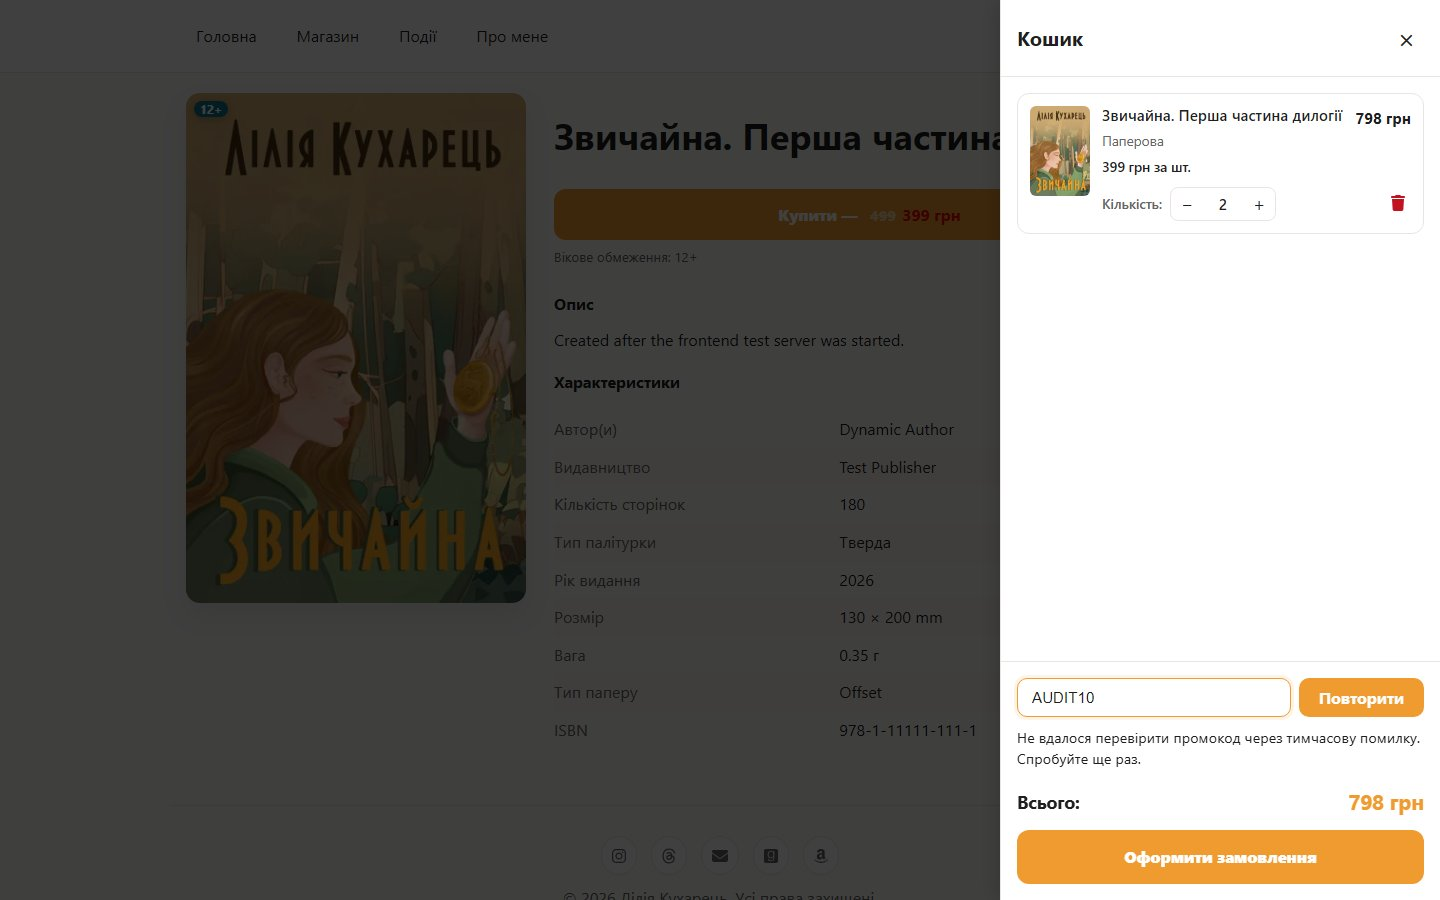
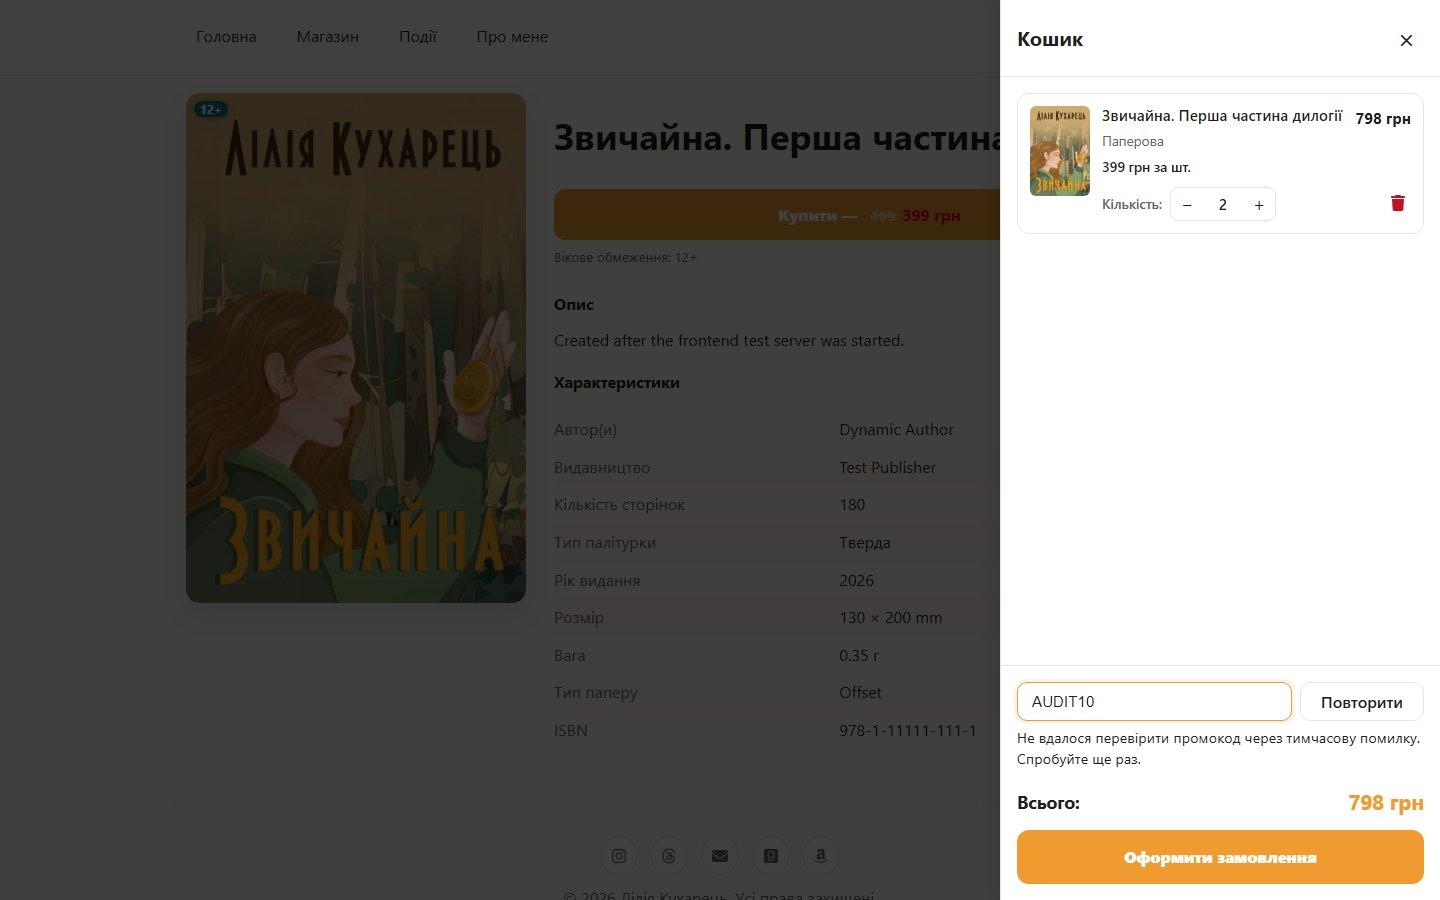
style: refine promo retry hierarchy and spacing (ZVY-71) [skip netlify]

Changed region(s): [[0.6875, 0.7467, 1.0, 0.8089]]

diff --git a/tests/e2e/promo-recovery.spec.ts b/tests/e2e/promo-recovery.spec.ts
@@ -91,16 +91,21 @@ for (const viewport of [{ width: 1440, height: 900 }, { width: 390, height: 844 
     });
 
     for (const failure of ["invalid", "expired", "400", "422", "network", "503", "500", "429", "401"] as const) {
-      test(`${failure} retains code and amounts, then recovers with unchanged code`, async ({ page }) => {
+      test(`${failure} retains code and amounts, then recovers with unchanged code`, async ({ page }, info) => {
         const selection = await page.evaluate(() => JSON.parse(localStorage.getItem("cart") ?? "[]"));
         let calls = 0;
         let recover = false;
+        let releaseRetry: () => void = () => {};
+        const pendingRetry = new Promise<void>(resolve => { releaseRetry = resolve; });
         await page.route("**/api/PromoCode/validate?**", async route => {
           calls += 1;
           const url = new URL(route.request().url());
           expect(url.searchParams.get("code")).toBe("AUDIT10");
           expect(url.searchParams.getAll("productItemIds")).toEqual([itemId]);
-          if (recover) return route.fulfill({ json: promo });
+          if (recover) {
+            if (failure === "503") await pendingRetry;
+            return route.fulfill({ json: promo });
+          }
           if (failure === "network") return route.abort("failed");
           const status = failure === "invalid" || failure === "expired" ? 404 : Number(failure);
           // HTML failure bodies must retain the actual transport status too.
@@ -130,7 +135,29 @@ for (const viewport of [{ width: 1440, height: 900 }, { width: 390, height: 844 
         await page.getByRole("button", { name: /^Кошик, / }).click();
         await expect(feedback).toBeVisible();
         recover = true;
+        const action = input(page).locator("..").getByRole("button");
+        const checkout = cart(page).getByRole("button", { name: "Оформити замовлення", exact: true });
+        const checkoutBackground = await checkout.evaluate(node => getComputedStyle(node).backgroundColor);
+        if (failure === "503") {
+          expect(await action.evaluate(node => getComputedStyle(node).backgroundColor)).not.toBe(checkoutBackground);
+        }
         await button.click();
+        if (failure === "503") {
+          try {
+            await expect(action).toBeDisabled();
+            await expect(action).toHaveAccessibleName("Перевіряємо промокод");
+            await expect(action.locator("svg")).toBeVisible();
+            await expect(input(page)).toHaveAttribute("readonly", "");
+            expect(await action.evaluate(node => getComputedStyle(node).backgroundColor)).not.toBe(checkoutBackground);
+            const bounds = (await action.boundingBox())!;
+            await page.mouse.click(bounds.x + bounds.width / 2, bounds.y + bounds.height / 2);
+            await page.mouse.click(bounds.x + bounds.width / 2, bounds.y + bounds.height / 2);
+            await input(page).press("Enter");
+            await expect.poll(() => calls).toBe(2);
+            await unchanged(page, selection);
+            if (process.env.ZVY71_EVIDENCE_PHASE === "after") await capture(page, info, "retry-loading", viewport.width);
+          } finally { releaseRetry(); }
+        }
         await expect(cart(page).getByText("AUDIT10", { exact: true })).toBeVisible();
         await expect(feedback).toHaveCount(0);
         await expect(cart(page).getByText("Всього:", { exact: true }).locator("..")).toHaveText("Всього:718 грн");

diff --git a/src/components/organisms/ShoppingCart.tsx b/src/components/organisms/ShoppingCart.tsx
@@ -42,7 +42,8 @@ export default function ShoppingCart({
 }: ShoppingCartProps) {
   const { appliedPromocode, discountAmount, getItemDiscount, applyPromocode, removePromocode } = useCart();
   const [promoInput, setPromoInput] = useState("");
-  const [isApplying, setIsApplying] = useState(false);
+  const [applyingAction, setApplyingAction] = useState<"apply" | "retry" | null>(null);
+  const isApplying = applyingAction !== null;
   const [promoFailure, setPromoFailure] = useState<"invalid" | "temporary" | null>(null);
   const applyingRef = useRef(false);
   const promoFeedbackId = useId();
@@ -94,7 +95,7 @@ export default function ShoppingCart({
   const handleApplyPromo = async () => {
     if (applyingRef.current || !promoInput.trim()) return;
     applyingRef.current = true;
-    setIsApplying(true);
+    setApplyingAction(promoFailure === "temporary" ? "retry" : "apply");
     setPromoFailure(null);
     try {
       await applyPromocode(promoInput.trim());
@@ -105,7 +106,7 @@ export default function ShoppingCart({
       setPromoFailure(status === 400 || status === 404 || status === 422 ? "invalid" : "temporary");
     } finally {
       applyingRef.current = false;
-      setIsApplying(false);
+      setApplyingAction(null);
     }
   };
 
@@ -276,7 +277,7 @@ export default function ShoppingCart({
                   <button
                     onClick={handleApplyPromo}
                     disabled={isApplying || !promoInput.trim()}
-                    className={styles.promoApplyBtn}
+                    className={`${styles.promoApplyBtn} ${promoFailure === "temporary" || applyingAction === "retry" ? styles.promoRetryBtn : ""}`}
                     aria-label={isApplying ? "Перевіряємо промокод" : undefined}
                   >
                     {isApplying ? <Icon name="spinner" spin /> : promoFailure === "temporary" ? "Повторити" : "Застосувати"}

diff --git a/src/components/organisms/ShoppingCart.module.css b/src/components/organisms/ShoppingCart.module.css
@@ -431,7 +431,7 @@
   padding: 0 0 4px;
   display: flex;
   flex-direction: column;
-  gap: 10px;
+  gap: 6px;
   background: var(--surface);
 }
 
@@ -490,6 +490,19 @@
   opacity: 0.5;
   cursor: not-allowed;
   filter: grayscale(0.5);
+}
+
+.promoRetryBtn {
+  background: transparent;
+  color: var(--text);
+  border: 1px solid var(--border);
+  font-weight: 600;
+}
+
+.promoRetryBtn:hover:not(:disabled) {
+  background: var(--accent-weak);
+  transform: none;
+  box-shadow: none;
 }
 
 .appliedPromo {

diff --git a/docs/storefront-promo-recovery/REPORT.md b/docs/storefront-promo-recovery/REPORT.md
@@ -6,6 +6,8 @@
 
 HTTP 400, 404 and 422 responses show persistent correction feedback beside the promo input. Network failures and other HTTP failures, including 503, 500, 429 and 401, show a temporary-failure explanation and a **Повторити** (Retry) button. The entered code is retained. Retry uses the same provider/API path and unchanged cart selection; a recovered service can apply the unchanged valid code.
 
+The promo row and feedback have a 6 px gap. Retry uses a neutral outline button while checkout retains its orange primary treatment. Retry keeps that secondary appearance during loading.
+
 The API error includes the actual response status even for non-JSON failure bodies. Promo requests propagate their errors to the cart, which owns the persistent feedback, avoiding a second generic network toast. Other API notification paths retain their existing behavior.
 
 During validation, the button is disabled, the input is read-only, and a synchronous request guard also prevents repeated Enter events from sending duplicate requests. The loading action has an accessible name. Failure feedback uses `role="alert"`, is associated with the input through `aria-describedby`, and marks only rejected codes as `aria-invalid`. It remains until the customer edits the code, retries, or succeeds, including when the cart is closed and reopened in the same page session.
@@ -21,7 +23,7 @@ CartProvider updates the applied promo only after a successful request. No cart 
 - `src/components/organisms/ShoppingCart.module.css`: wrapping and spacing for inline feedback.
 - `tests/e2e/cart-promo-layout.spec.ts`: replace the former outage-as-invalid/toast-expiry assertions with the new persistent feedback expectations.
 - `tests/e2e/promo-recovery.spec.ts`: controlled rejection, outage, recovery, loading, persistence, amounts and evidence coverage.
-- This report and 24 before/after JPG captures.
+- This report and 27 JPG captures: 12 before, 12 matching after, and three additional after-only retry-loading captures.
 
 ## Environment and reproducibility
 
@@ -64,6 +66,8 @@ These are matching local controlled captures of the recorded base and implementa
 | Outage | 360 | [Before](before/SCR-04-promo-outage-360x844.jpg) | [After](after/SCR-04-promo-outage-360x844.jpg) |
 | Applied | 360 | [Before](before/SCR-04-promo-applied-360x844.jpg) | [After](after/SCR-04-promo-applied-360x844.jpg) |
 
+The updated secondary Retry loading state is also captured at [1440×900](after/SCR-04-promo-retry-loading-1440x900.jpg), [390×844](after/SCR-04-promo-retry-loading-390x844.jpg), and [360×844](after/SCR-04-promo-retry-loading-360x844.jpg).
+
 ## Acceptance criteria and handoff
 
 | Criterion | Result |
@@ -88,5 +92,13 @@ Netlify deployment is skipped at the owner's explicit request. Keep `[skip netli
 - Regression control: the new desktop `503 retains code and amounts` test was run against application sources built from the recorded base revision. It failed at the expected temporary-failure feedback assertion because the cart had no inline alert. The same scenario passed after the implementation. This deliberate baseline failure is evidence that the regression catches the defect, not an outstanding implementation failure.
 - Visual review checked the misleading baseline toast, persistent after feedback, Ukrainian wrapping, Retry and preserved cart navigation at the required widths. No horizontal overflow was found; quantities and undiscounted/recovered totals match the fixture.
 - Self-review covered the complete application/test diff, actual HTTP status handling for non-JSON bodies, duplicate request locking, async failure recovery, field/error associations, applied-promo persistence, unchanged allocation logic and documentation links. No outstanding implementation defects were found.
+
+### Owner refinements
+
+The owner requested tighter feedback spacing and a less dominant Retry action. The gap was reduced from 10 px to 6 px, and Retry now has a neutral outline treatment. A loading action distinguishes apply from retry so that the spinner remains secondary during retry. Invalid-code correction and temporary-failure Retry messages remain distinct.
+
+Lint, typecheck and the deterministic production build passed after these refinements. The updated promo-recovery and cart-layout run passed all 39 checks. The 503 scenarios hold the retry request open and assert a visible spinner, disabled action, readonly code, preserved secondary hierarchy, unchanged cart/total, and exactly one retry despite repeated mouse clicks and Enter. Error-state accessibility checks continue to pass at all three widths. The after captures were refreshed and three retry-loading captures added; the original before captures remain unchanged.
+
+Visual review confirmed the tighter grouping, secondary idle/loading Retry and primary checkout hierarchy on desktop and narrow mobile. Current-head CI remains authoritative through the linked PR/branch checks above.
 
 The implementation is ready for code review once the current-head required CI check passes. Deployment/merge and final ZVY-58 journey verification remain the handoffs described above.
